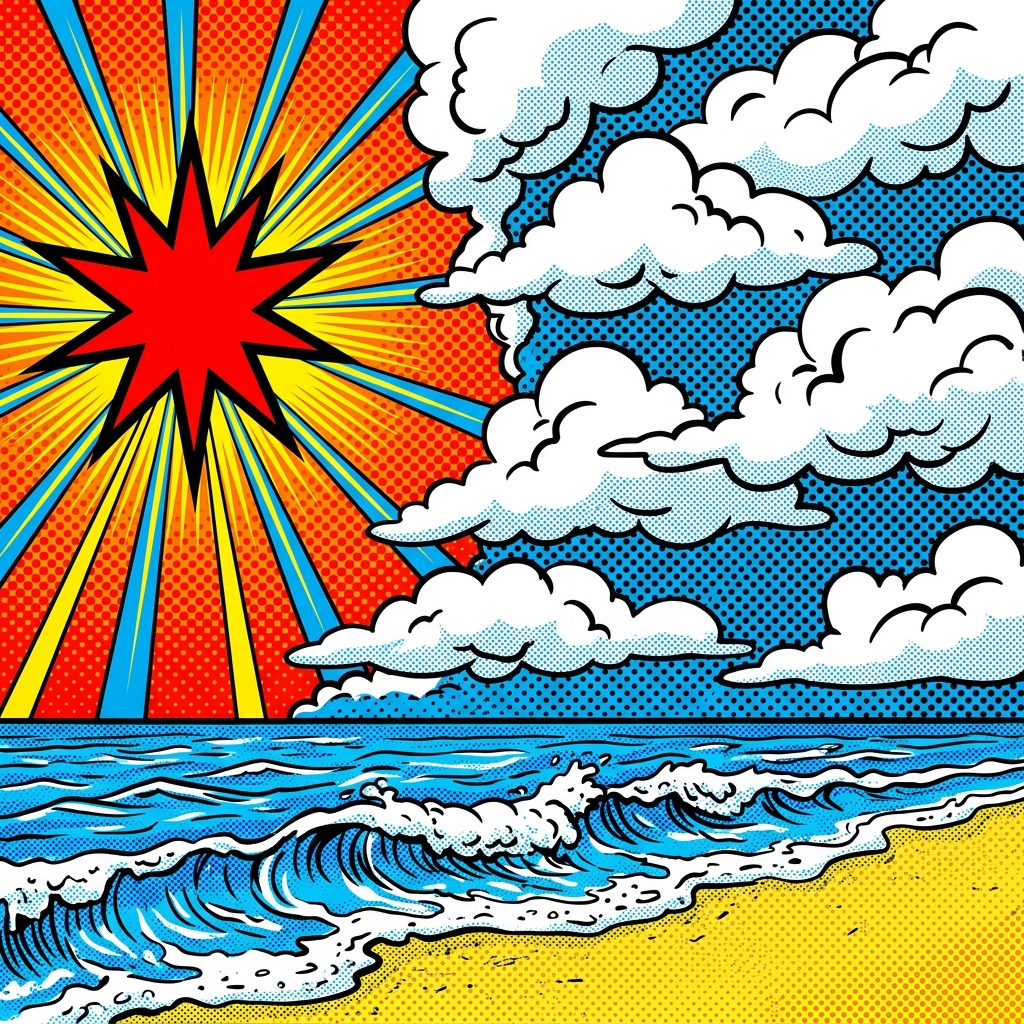
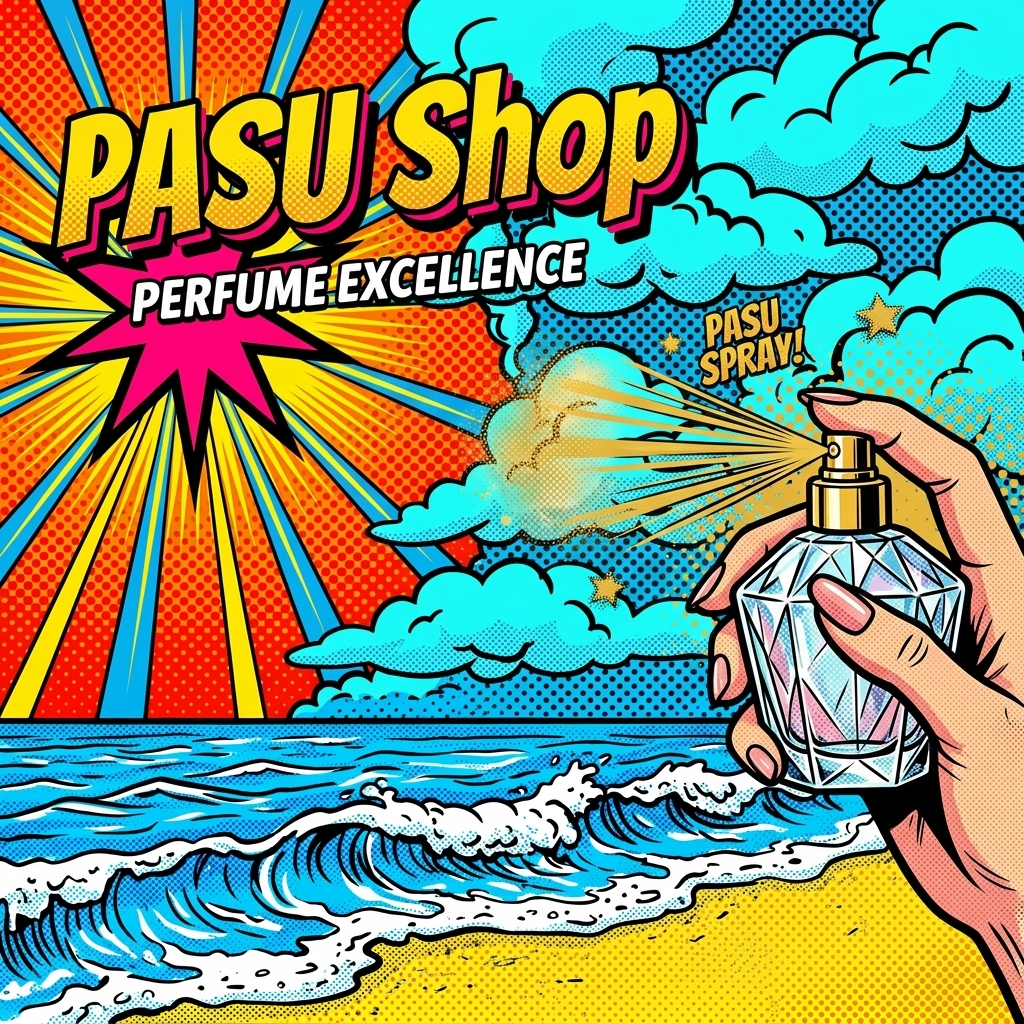
feat: add ProductCard and ProductModals components with corresponding assets for the application interface

diff --git a/src/app/index.tsx b/src/app/index.tsx
@@ -180,15 +180,10 @@ export default function ProductsScreen() {
 
   const getValidImageUrl = (url?: string, itemId?: number | string): string => {
     const key = String(itemId);
-    const fallback = 'https://images.unsplash.com/photo-1541643600914-78b084683601?w=500&auto=format&fit=crop&q=60';
+    const fallback = 'https://placehold.co/500x500/FF007F/FFFFFF.png?text=NO+IMAGE';
     if (failedImages[key]) return fallback;
     if (!url || !url.trim() || url.includes('example.com')) {
-      const defaults: Record<string, string> = {
-        '4': fallback,
-        '5': 'https://images.unsplash.com/photo-1594035910387-fea47794261f?w=500&auto=format&fit=crop&q=60',
-        '6': 'https://images.unsplash.com/photo-1592945403244-b3fbafd7f539?w=500&auto=format&fit=crop&q=60',
-      };
-      return defaults[key] || fallback;
+      return fallback;
     }
     const trimmed = url.trim();
     if (trimmed.includes('bing.com/images/search') && trimmed.includes('mediaurl=')) {
@@ -217,7 +212,7 @@ export default function ProductsScreen() {
       {/* Top Marquee Bar */}
       <View style={styles.topMarqueeBar}>
         <Text style={styles.marqueeText}>
-          ⚡ POP ART PERFUME LAB • 100% INTENSE SCENTS • FREE EXPRESS SHIPPING ON ALL ORDERS! ⚡
+          ⚡ PASU SHOP • 100% INTENSE SCENTS • FREE EXPRESS SHIPPING ON ALL ORDERS! ⚡
         </Text>
       </View>
 
@@ -229,15 +224,15 @@ export default function ProductsScreen() {
         imageStyle={{ width: '100%', height: '100%' }}
       >
         <View style={styles.brandBadge}>
-          <Text style={styles.brandTitle}>BOOM!</Text>
-          <Text style={styles.brandSubtitle}>SCENTS</Text>
+          <Text style={styles.brandTitle}>PASU</Text>
+          <Text style={styles.brandSubtitle}>SHOP</Text>
         </View>
 
         <View style={styles.searchWrapper}>
           <Ionicons name="search" size={20} color="#000000" style={styles.searchIcon} />
           <TextInput
             style={styles.searchInput}
-            placeholder="Search pop scents..."
+            placeholder="Search products..."
             placeholderTextColor="#666666"
             value={search}
             onChangeText={setSearch}
@@ -250,7 +245,7 @@ export default function ProductsScreen() {
           </TouchableOpacity>
           <TouchableOpacity style={styles.addNavBtn} onPress={openAddModal}>
             <Ionicons name="add-circle-sharp" size={20} color="#FFFFFF" style={{ marginRight: 4 }} />
-            <Text style={styles.addNavBtnText}>+ ADD SCENT</Text>
+            <Text style={styles.addNavBtnText}>+ ADD PRODUCT</Text>
           </TouchableOpacity>
         </View>
       </ImageBackground>
@@ -266,7 +261,7 @@ export default function ProductsScreen() {
         {loading ? (
           <View style={styles.loadingContainer}>
             <ActivityIndicator size="large" color="#FF007F" />
-            <Text style={styles.loadingText}>LOADING POP SCENTS FROM MYSQL...</Text>
+            <Text style={styles.loadingText}>LOADING PRODUCTS FROM MYSQL...</Text>
           </View>
         ) : errorMessage && products.length === 0 ? (
           <View style={styles.errorContainer}>
@@ -298,7 +293,7 @@ export default function ProductsScreen() {
         {/* Creator Section */}
         <View style={styles.sectionHeader}>
           <Text style={styles.sectionTitle}>CREATOR</Text>
-          <Text style={styles.sectionSubtitle}>The person behind Pop Scents</Text>
+          <Text style={styles.sectionSubtitle}>The person behind PASU Shop</Text>
         </View>
         <View style={styles.reviewsGrid}>
           <View style={[styles.speechCard, { backgroundColor: '#FFE600', alignItems: 'center' }]}>
@@ -324,10 +319,10 @@ export default function ProductsScreen() {
         {/* Footer */}
         <View style={styles.footerContainer}>
           <View style={styles.footerBrand}>
-            <Text style={styles.footerTitle}>BOOM! PERFUMES</Text>
-            <Text style={styles.footerSubtitle}>Pop Art E-Commerce Powered by React Native & MySQL</Text>
+            <Text style={styles.footerTitle}>PASU SHOP</Text>
+            <Text style={styles.footerSubtitle}>E-Commerce Powered by React Native & MySQL</Text>
           </View>
-          <Text style={styles.footerCopy}>© 2026 POP ART SCENTS LAB • ALL RIGHTS RESERVED</Text>
+          <Text style={styles.footerCopy}>© 2026 PASU SHOP • ALL RIGHTS RESERVED</Text>
         </View>
       </ScrollView>
 

diff --git a/src/utils/injectWebStyles.ts b/src/utils/injectWebStyles.ts
@@ -1,10 +1,12 @@
 import { Platform } from 'react-native';
 
+// eslint-disable-next-line @typescript-eslint/no-var-requires
+const comicBg = require('../../assets/comic-bg.png');
+
 /**
  * Injects global CSS for the web platform:
  * - Google Fonts
- * - Halftone dot background
- * - Header sunburst
+ * - Comic panel background image
  * - Pop Art hover/animation classes
  */
 export function injectGlobalWebStyles(): void {
@@ -13,17 +15,40 @@ export function injectGlobalWebStyles(): void {
   const styleId = 'pop-art-global-styles';
   if (document.getElementById(styleId)) return;
 
+  // Resolve the comic background image URI for web
+  let bgImageUrl = '';
+  if (comicBg) {
+    // Expo web resolves require() to either a string URL or an object with .uri
+    if (typeof comicBg === 'string') {
+      bgImageUrl = comicBg;
+    } else if (comicBg.uri) {
+      bgImageUrl = comicBg.uri;
+    } else if (typeof comicBg === 'number') {
+      // Metro bundler returns a number; on web, the asset resolver may give a different format
+      bgImageUrl = '';
+    }
+  }
+
+  const bgImageCss = bgImageUrl
+    ? `background-image: url("${bgImageUrl}") !important;
+      background-size: 1200px 800px !important;
+      background-repeat: repeat !important;
+      background-position: 0 0 !important;`
+    : `background-image:
+        radial-gradient(rgba(0,0,0,0.13) 25%, transparent 26%),
+        radial-gradient(rgba(0,0,0,0.13) 25%, transparent 26%) !important;
+      background-size: 22px 22px, 22px 22px !important;
+      background-position: 0 0, 11px 11px !important;`;
+
   const style = document.createElement('style');
   style.id = styleId;
   style.innerHTML = `
     @import url('https://fonts.googleapis.com/css2?family=Outfit:wght@600;800;900&family=Fredoka:wght@600;700&display=swap');
 
     body {
-      background-color: #FF99CC !important;
+      background-color: #FF69B4 !important;
       font-family: 'Outfit', 'Fredoka', sans-serif !important;
-      background-image: radial-gradient(rgba(0,0,0,0.15) 25%, transparent 26%), radial-gradient(rgba(0,0,0,0.15) 25%, transparent 26%) !important;
-      background-size: 28px 28px !important;
-      background-position: 0 0, 14px 14px !important;
+      ${bgImageCss}
       margin: 0 !important;
       padding: 0 !important;
       box-sizing: border-box !important;

diff --git a/src/components/ProductModals.tsx b/src/components/ProductModals.tsx
@@ -43,7 +43,7 @@ export function AddModal({ visible, form, isLoading, onClose, onSave, onChange }
           style={styles.modalContent}
         >
           <View style={[styles.modalHeader, { backgroundColor: '#FF007F' }]}>
-            <Text style={[styles.modalTitle, { color: '#FFFFFF' }]}>💥 ADD NEW POP SCENT</Text>
+            <Text style={[styles.modalTitle, { color: '#FFFFFF' }]}>💥 ADD NEW PRODUCT</Text>
             <TouchableOpacity onPress={onClose} style={styles.closeBtn}>
               <Ionicons name="close-circle" size={28} color="#FFFFFF" />
             </TouchableOpacity>
@@ -141,7 +141,7 @@ export function EditModal({ visible, form, isSaving, onClose, onSave, onChange }
           style={styles.modalContent}
         >
           <View style={[styles.modalHeader, { backgroundColor: '#FFE600' }]}>
-            <Text style={styles.modalTitle}>✏ EDIT SCENT DETAILS</Text>
+            <Text style={styles.modalTitle}>✏ EDIT PRODUCT DETAILS</Text>
             <TouchableOpacity onPress={onClose} style={styles.closeBtn}>
               <Ionicons name="close-circle" size={28} color="#000000" />
             </TouchableOpacity>

diff --git a/src/components/ProductCard.tsx b/src/components/ProductCard.tsx
@@ -32,7 +32,7 @@ export function ProductCard({
       {/* Card Header */}
       <View style={[styles.cardHeader, { backgroundColor: headerBg }]}>
         <Text style={[styles.cardHeaderBrand, isDarkHeader && { color: '#FFFFFF' }]}>
-          {item.brand || 'POP EDITION'}
+          {item.brand || 'PASU SHOP'}
         </Text>
         <View style={styles.stockBadge}>
           <Text style={styles.stockBadgeText}>STOCK: {item.stock_quantity ?? item.stock ?? 0}</Text>
@@ -44,11 +44,11 @@ export function ProductCard({
         <Image
           source={{ uri: getValidImageUrl(item.image_url || item.imageUrl, item.item_id || item.id) }}
           style={styles.cardImage}
-          resizeMode="cover"
+          resizeMode="contain"
           onError={() => onImageError(item.item_id || item.id)}
         />
         <View style={styles.starSticker}>
-          <Text style={styles.starStickerText}>POP!</Text>
+          <Text style={styles.starStickerText}>PASU</Text>
         </View>
       </View>
 
